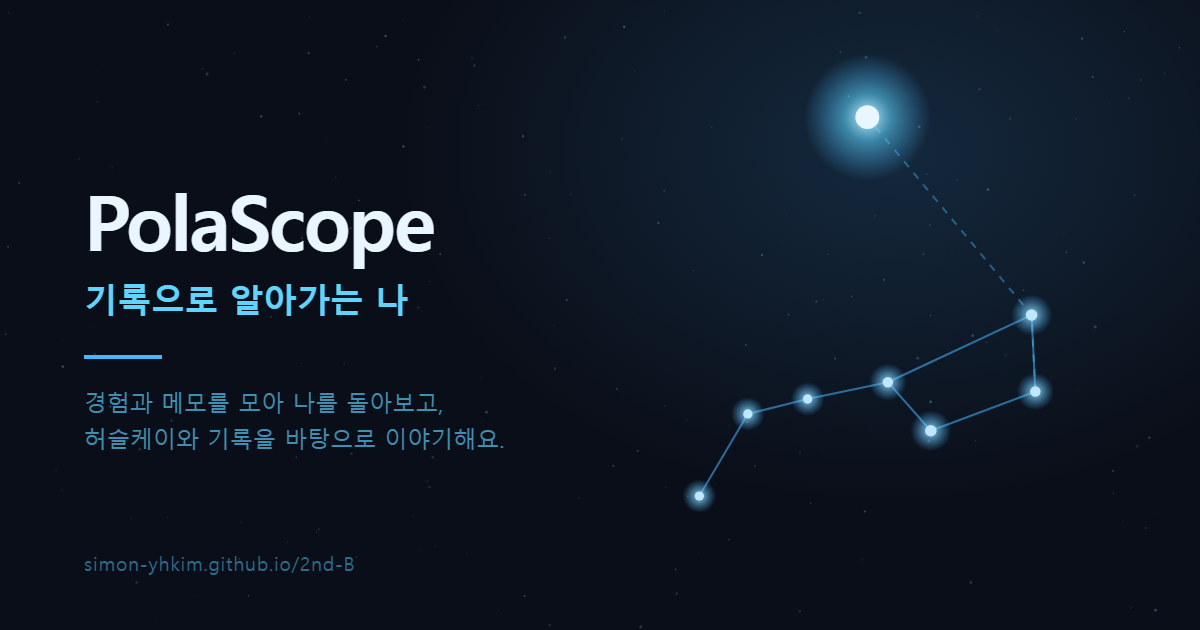
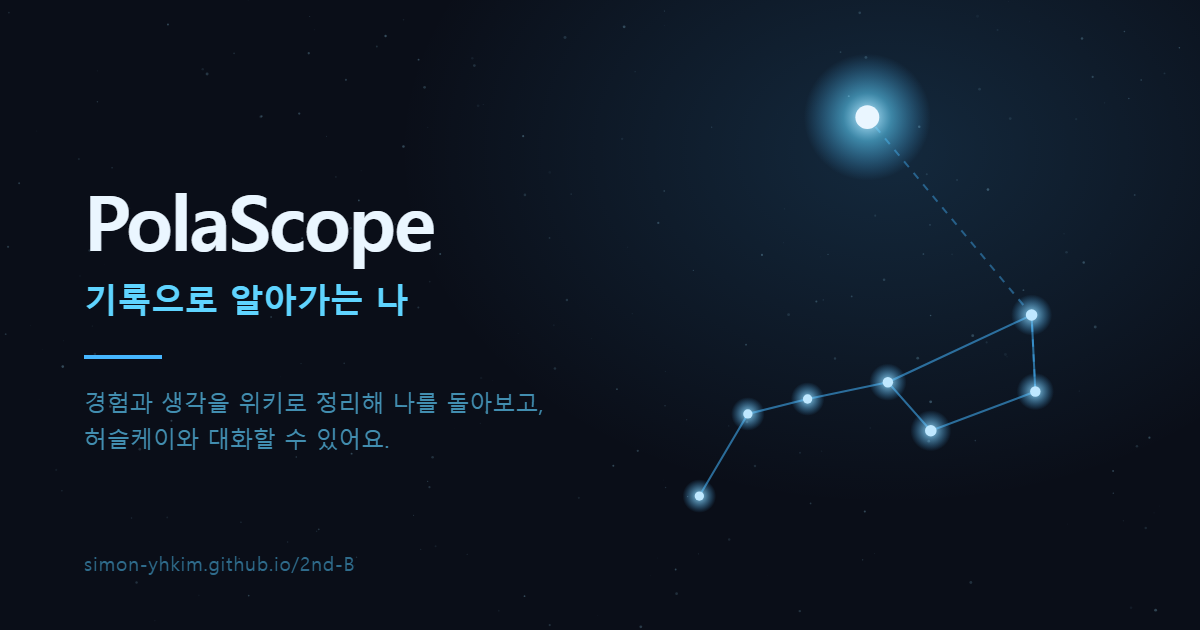
copy(web): landing sentence names the wiki and the HustleK chat (Simon pick 1 of 5)
SITE_DESCRIPTION: 「경험과 생각을 위키로 정리해 나를 돌아보고, 허슬케이와 대화할 수 있습니다.」
The old sentence said 「기록을 바탕으로 이야기합니다」, which the writing rules
list as a banned phrase and which did not say what the product does with the
records. The wiki is already a user-facing term in locales/ko.

design/og-card/og-card.html carries the same sentence in the 해요체 variant it
already used, and public/og-image.png is re-rendered from it with the README's
headless Chrome command. The old HTML re-renders to the committed PNG
byte for byte (sha256 e4d8c4e4322b), so the only difference in the new image
is the sentence.

Not in this change: the Play short description (docs/store-copy/drafts.json)
and chat-modes.json. No web publish.

Claude-Session: https://claude.ai/code/session_01Roc5CEUUpdSxk7xGBNnsFm

Changed region(s): [[0.1233, 0.6032, 0.4625, 0.7238]]

diff --git a/src/lib/site-meta.ts b/src/lib/site-meta.ts
@@ -16,7 +16,7 @@
 export const SITE_NAME = "PolaScope";
 export const SITE_TITLE = `${SITE_NAME} · 기록으로 알아가는 나`;
 export const SITE_DESCRIPTION =
-  "경험과 메모를 모아 나를 돌아보고, 허슬케이와 기록을 바탕으로 이야기합니다.";
+  "경험과 생각을 위키로 정리해 나를 돌아보고, 허슬케이와 대화할 수 있습니다.";
 
 // Where the site is actually served, including the Pages sub-path
 // (expo.experiments.baseUrl = /2nd-B). Only share metadata needs this: Open

diff --git a/design/og-card/og-card.html b/design/og-card/og-card.html
@@ -64,7 +64,7 @@
     <p class="brand">PolaScope</p>
     <p class="tag">기록으로 알아가는 나</p>
     <div class="rule"></div>
-    <p class="desc">경험과 메모를 모아 나를 돌아보고,<br>허슬케이와 기록을 바탕으로 이야기해요.</p>
+    <p class="desc">경험과 생각을 위키로 정리해 나를 돌아보고,<br>허슬케이와 대화할 수 있어요.</p>
   </div>
   <div class="host">simon-yhkim.github.io/2nd-B</div>
 </div>
